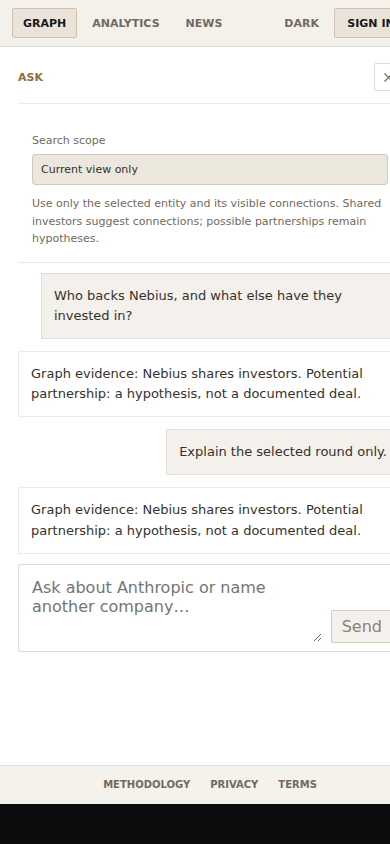
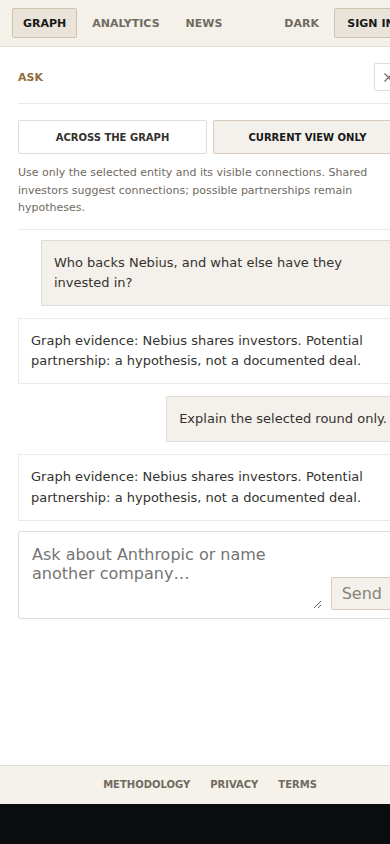
Style chat scope as full-width graph context buttons

Changed region(s): [[0.0308, 0.154, 1.0, 0.7393], [0.8308, 0.6777, 0.9846, 0.7701]]

diff --git a/web/src/styles.css b/web/src/styles.css
@@ -3779,9 +3779,10 @@ a {
   .question-analytics .slice-summary > div:first-child { grid-column: 1 / -1; }
 }
 
-.ask-scope { padding: 14px; border-bottom: 1px solid var(--border-soft); background: var(--surface-muted); }
-.ask-scope label { display: grid; gap: 7px; color: var(--muted); font-size: 11px; }
-.ask-scope select { width: 100%; padding: 8px; border: 1px solid var(--border); border-radius: 4px; background: var(--surface); color: var(--text); font: inherit; }
+.ask-scope { padding: 0 0 12px; border-bottom: 1px solid var(--border-soft); }
+.ask-scope-buttons { display: grid; grid-template-columns: repeat(2, minmax(0, 1fr)); gap: 6px; width: 100%; }
+.ask-scope-buttons .chip { width: 100%; min-height: 34px; border-radius: 2px; padding: 6px 7px; font-size: 10px; font-weight: 900; text-transform: uppercase; }
+.ask-scope-buttons .chip:disabled { cursor: not-allowed; opacity: .5; }
 .ask-scope p { margin: 10px 0 0; font-size: 11px; line-height: 1.6; color: var(--muted); }
 .chat-empty button { padding: 10px; border: 1px solid var(--accent-border); border-radius: 4px; color: var(--text); background: var(--accent-soft); font: inherit; font-size: 12px; line-height: 1.6; text-align: left; cursor: pointer; }
-.ask-scope select:focus-visible, .chat-empty button:focus-visible { outline: 2px solid var(--accent); outline-offset: 2px; }
+.ask-scope-buttons .chip:focus-visible, .chat-empty button:focus-visible { outline: 2px solid var(--accent); outline-offset: 2px; }

diff --git a/web/src/App.tsx b/web/src/App.tsx
@@ -1938,7 +1938,13 @@ function AskPanel({
   return (
     <section className="ask-panel">
       <div className="ask-scope">
-        <label>Search scope<select value={scope} onChange={(event) => setScope(event.target.value as "graph" | "visible")} disabled={status === "loading"}><option value="graph">Across the graph</option><option value="visible">Current view only</option></select></label>
+        <div className="ask-scope-buttons" role="group" aria-label="Search scope">
+          {([{ value: "graph", label: "Across the graph" }, { value: "visible", label: "Current view only" }] as const).map((option) => (
+            <button key={option.value} className={scope === option.value ? "chip selected" : "chip"}
+              aria-pressed={scope === option.value} disabled={status === "loading"}
+              onClick={() => setScope(option.value)} type="button">{option.label}</button>
+          ))}
+        </div>
         <p>{scope === "graph" ? "Find companies, backers, and their other funding connections beyond the visible view." : "Use only the selected entity and its visible connections."} Shared investors suggest connections; possible partnerships remain hypotheses.</p>
       </div>
       <div className="chat-thread">

diff --git a/docs/ASK_GRAPH_CONNECTIONS.md b/docs/ASK_GRAPH_CONNECTIONS.md
@@ -1,6 +1,6 @@
 # Asking about connections across the graph
 
-Ask defaults to **Across the graph**. Name a company or investor in the question; the server searches the published snapshot rather than relying on the current viewport. **Current view only** preserves the selected-entity and visible-neighborhood behavior. View filters do not restrict a broader search.
+Ask defaults to **Across the graph**. Two equally sized context-style buttons span the top of the chat panel and show the selected scope. Name a company or investor in the question; the server searches the published snapshot rather than relying on the current viewport. **Current view only** preserves the selected-entity and visible-neighborhood behavior. View filters do not restrict a broader search.
 
 Example:
 
